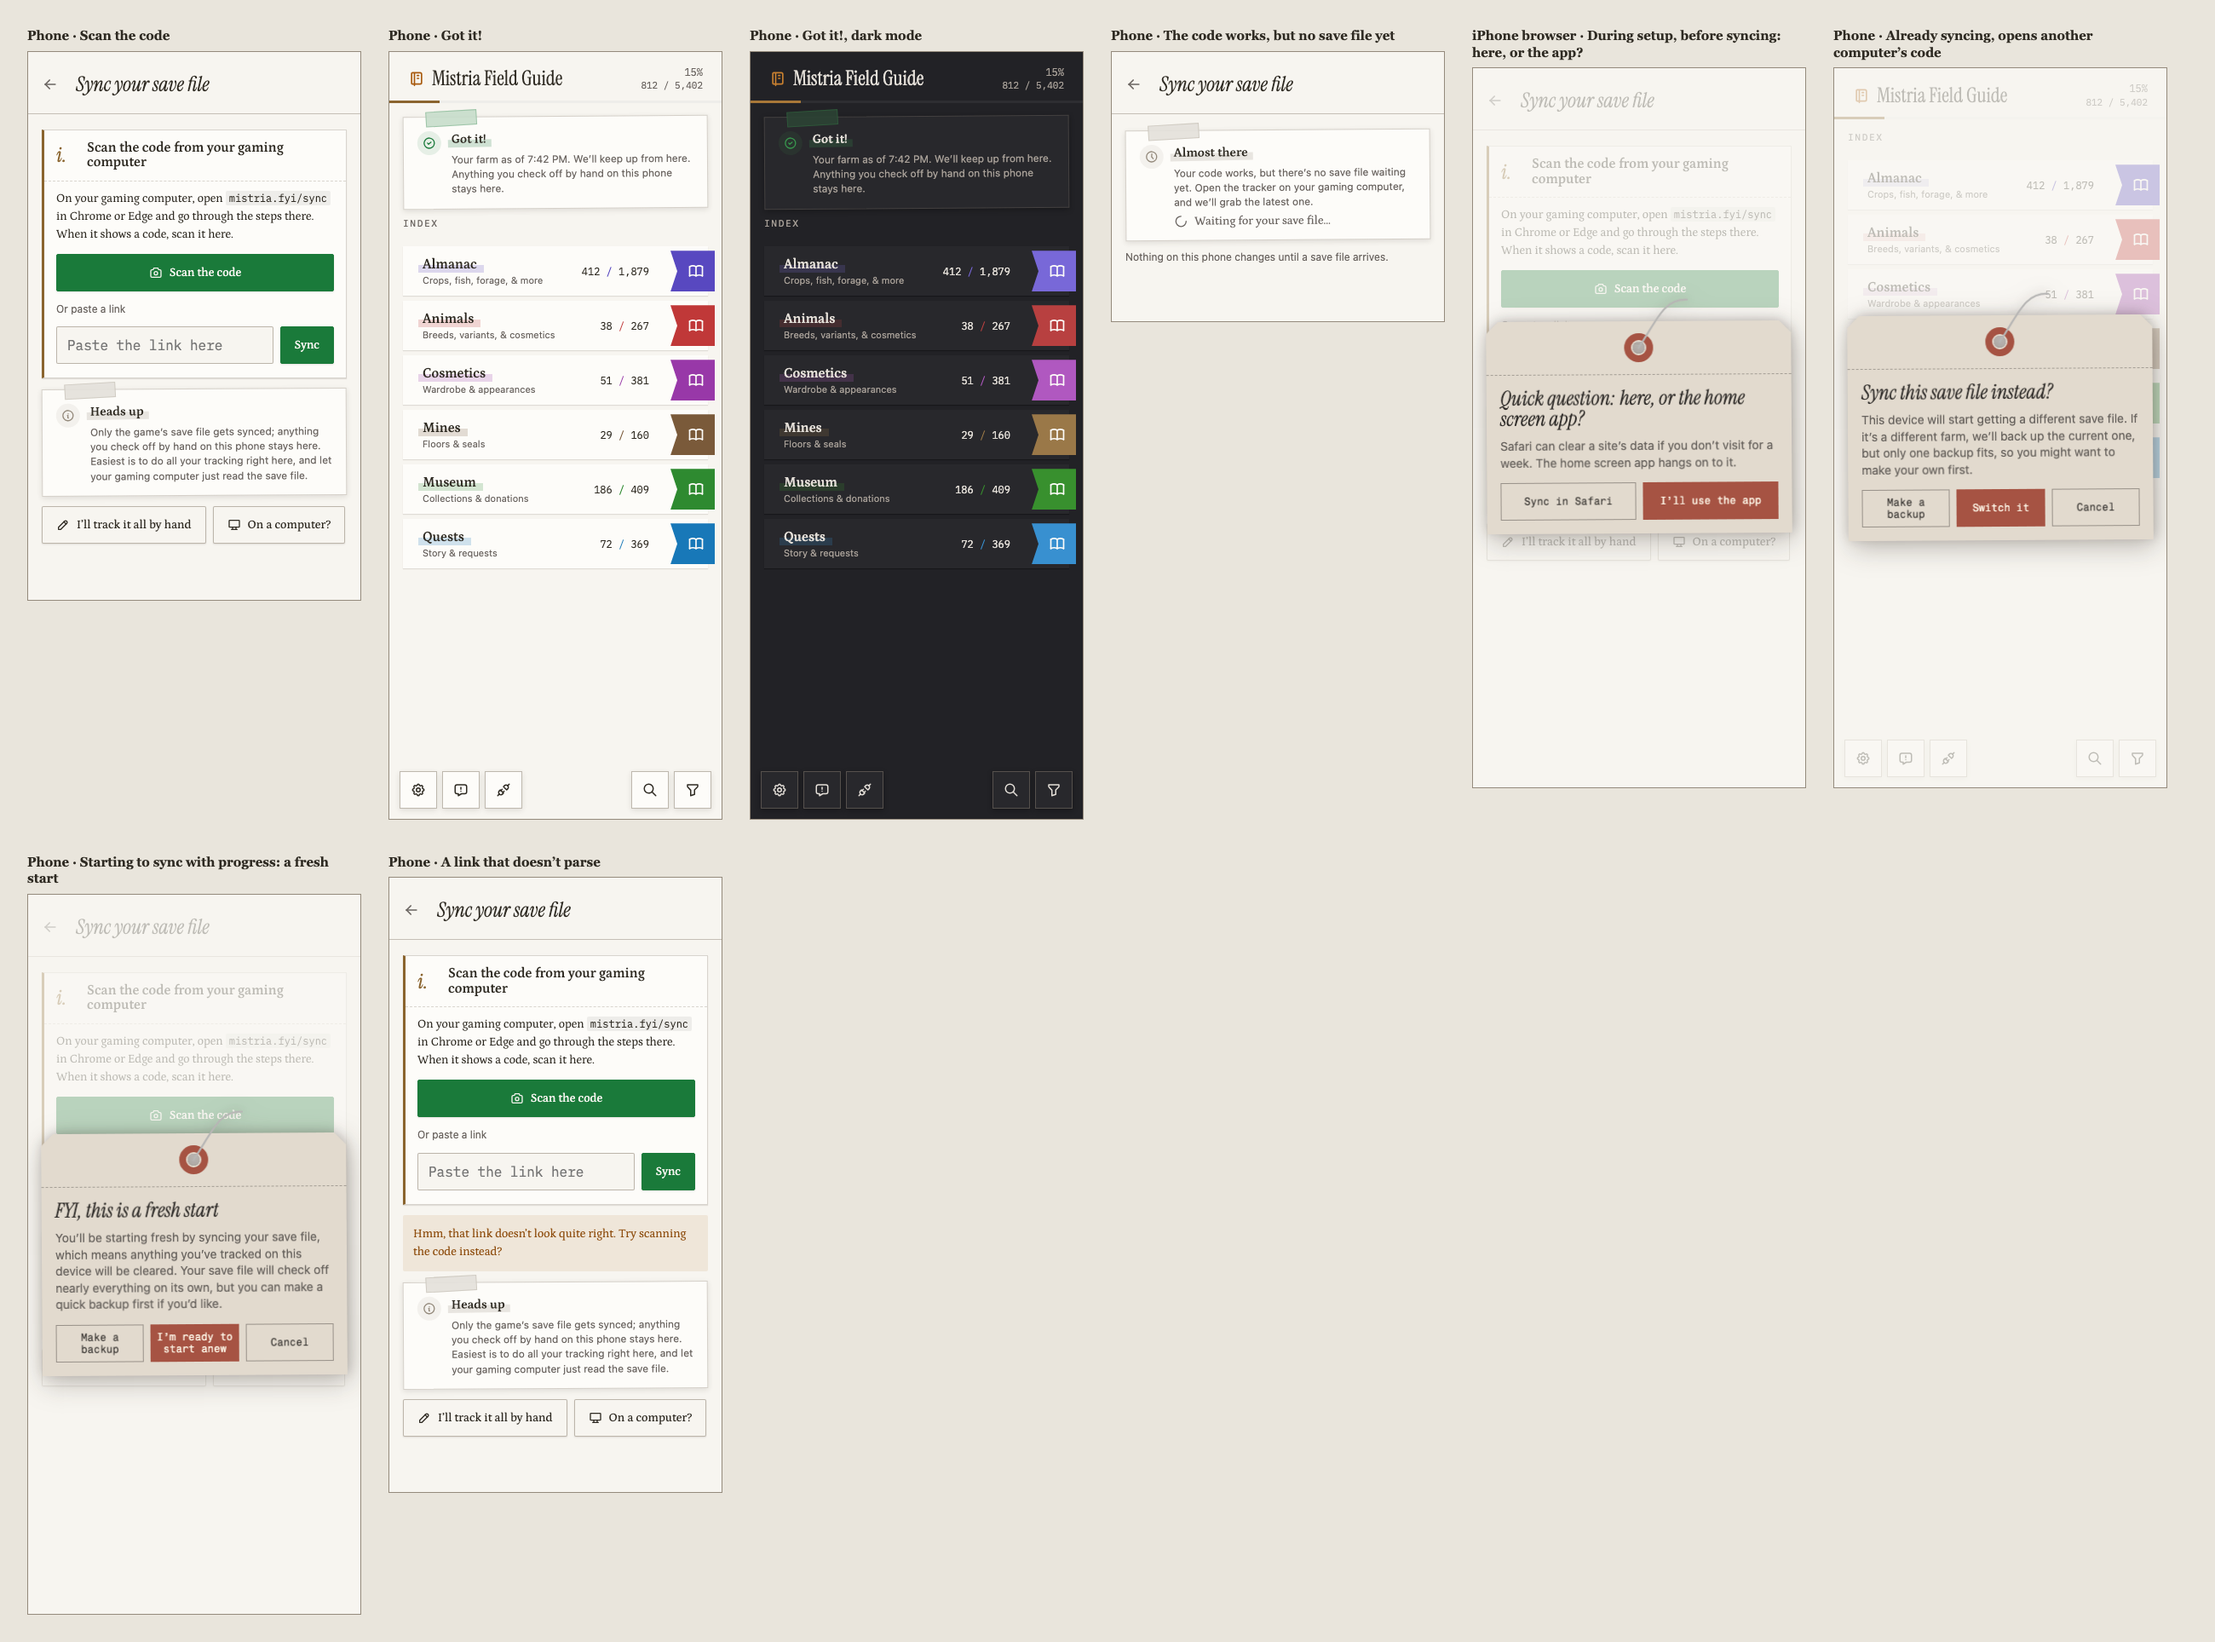
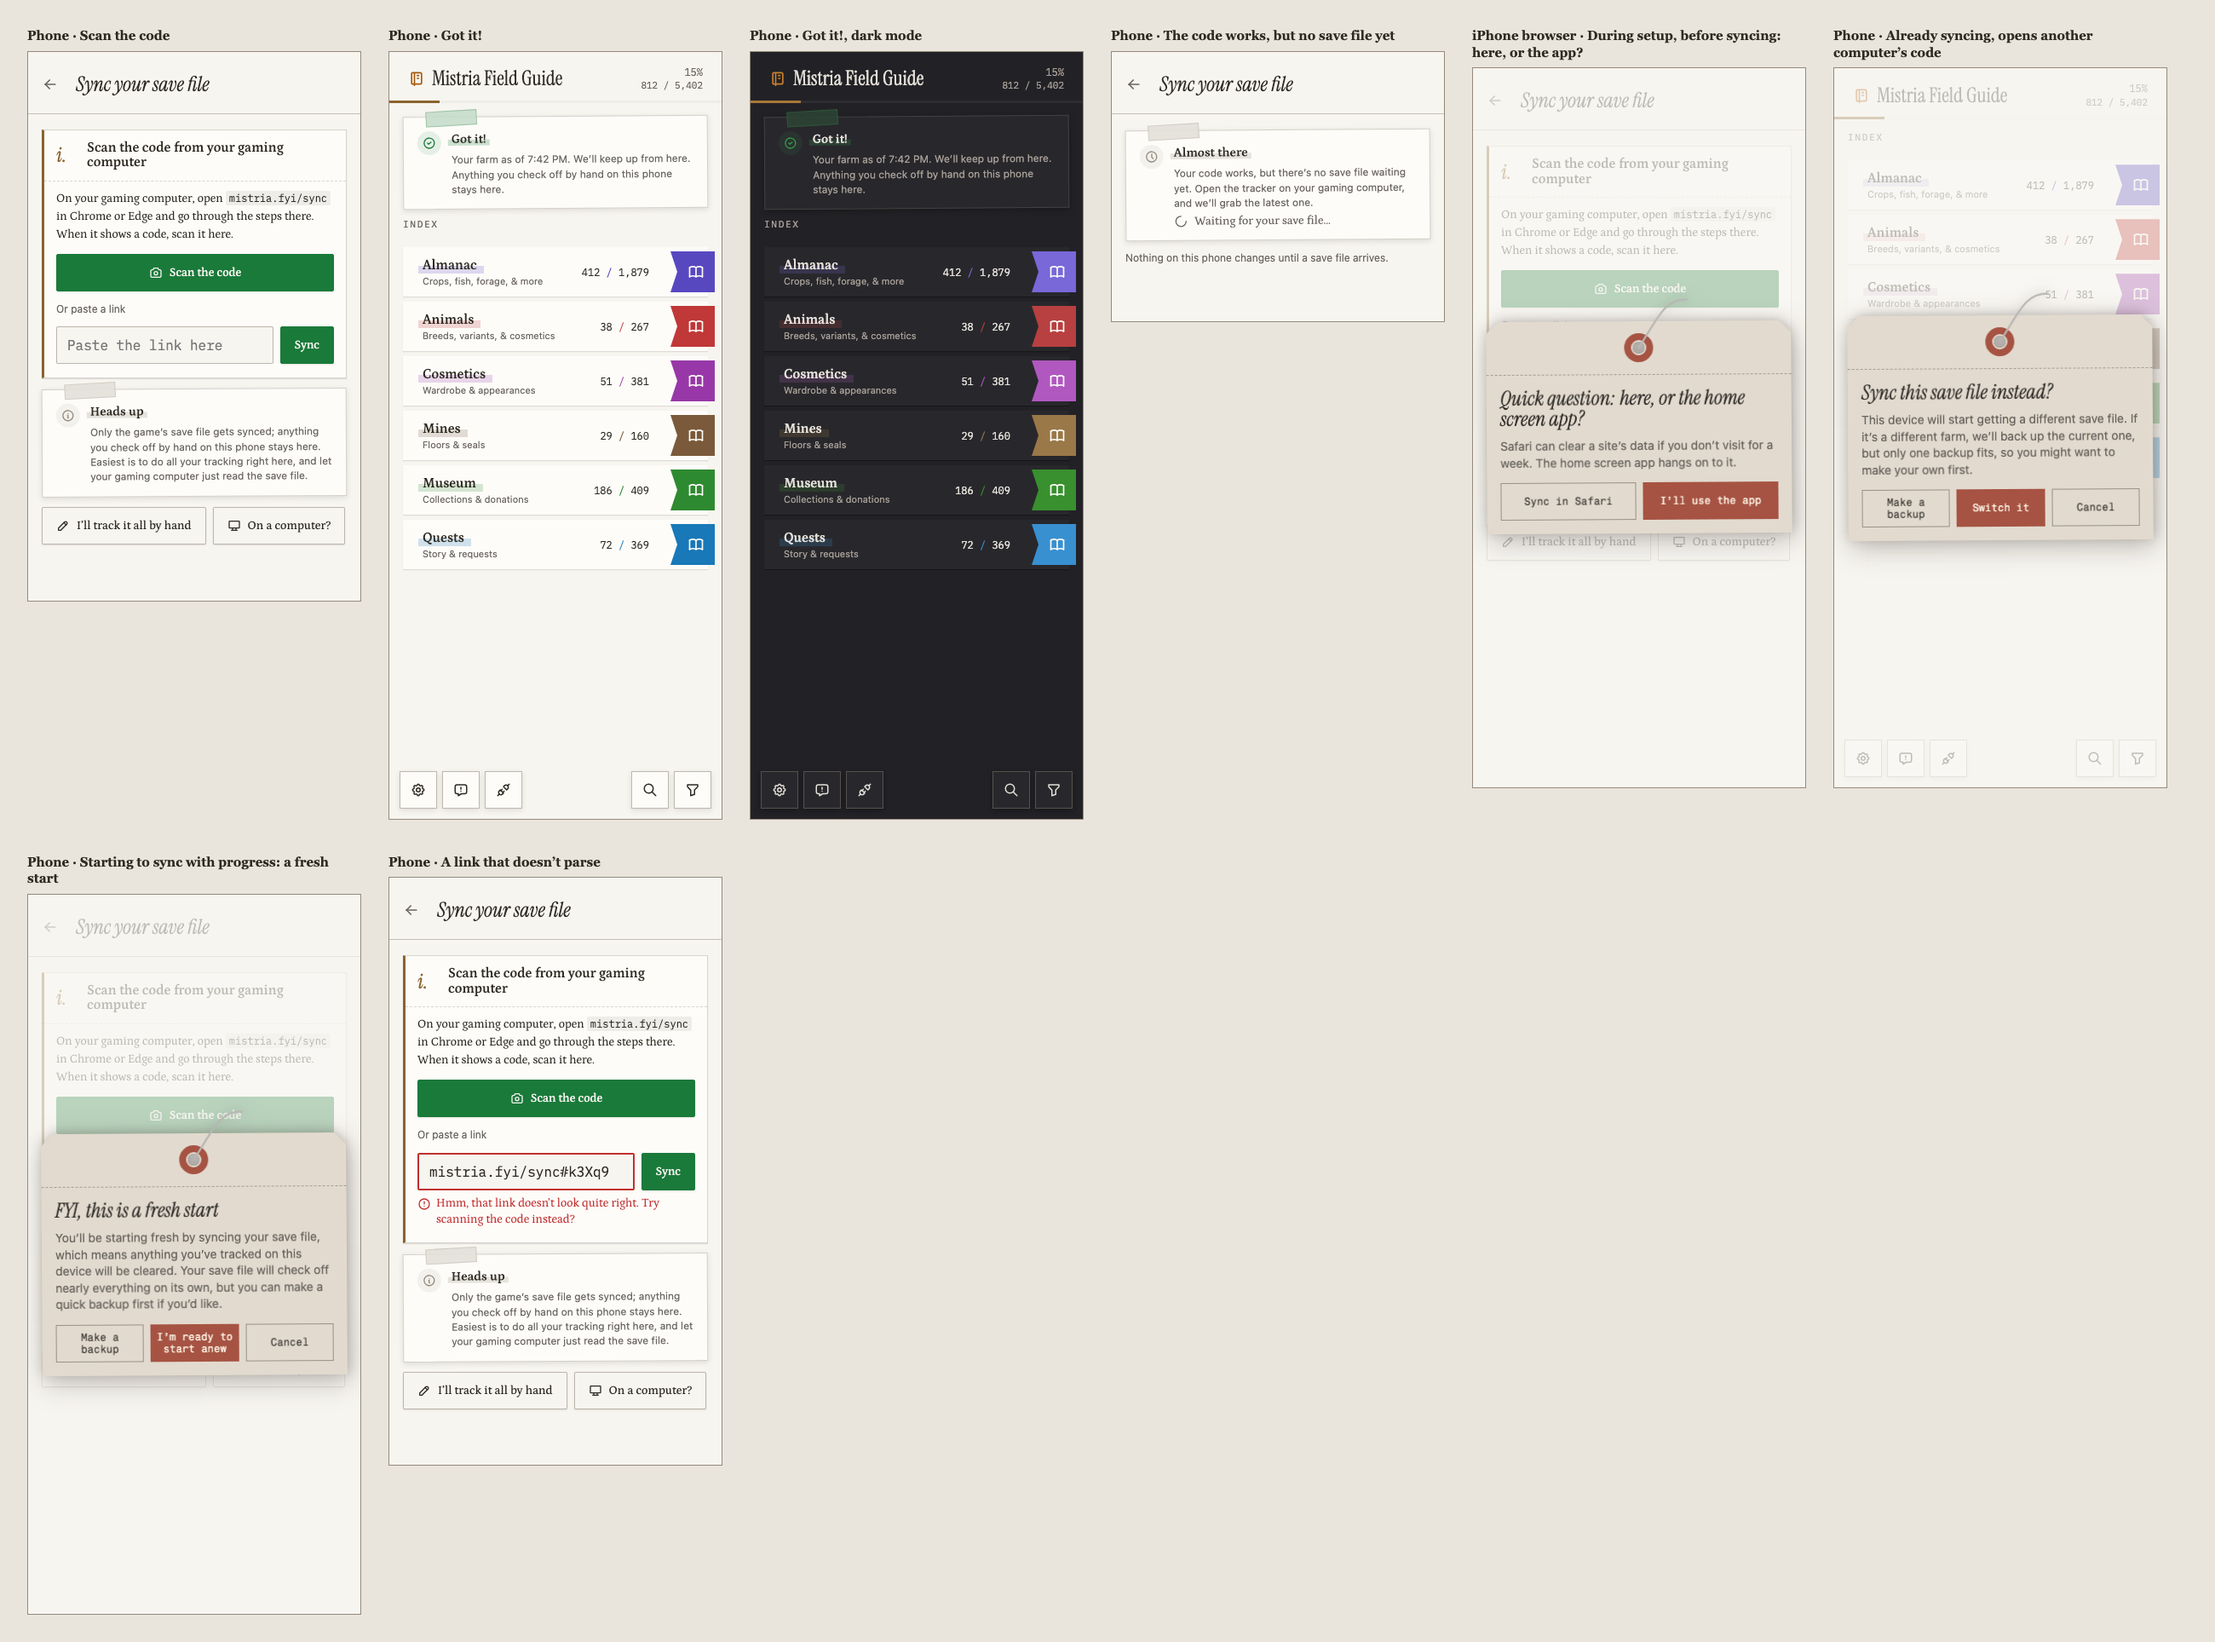
Polish sync setup mockups from the second review pass
Decisions:
- The inactive half of "Find your save file" dims its text & controls, which
  stay usable & announced; dimmed text falls below 4.5:1 by design.
- Field-note highlighters run under each line at that line's length, via
  box-decoration-break, instead of one stripe capped at half the width.
- A bad link's error sits under the paste field, which turns red & is
  described by it.
- Data shows the farmer & farm on separate lines.

diff --git a/docs/sync-setup.md b/docs/sync-setup.md
@@ -129,9 +129,11 @@ at the bottom.
 
 1. **Find your save file.** The step admits it’s the weirdest part & promises smooth sailing after.
    It has two halves, copying the folder & dragging the file in, both always visible but only one
-   active at a time, marked by an accent rule beside it; the other half keeps a hairline rule.
-   Nothing is dimmed or disabled except the drop box itself before the copy, so help, the platform
-   switch, & the instructions stay readable & usable, & the next step is still obvious at a glance.
+   active at a time, marked by an accent rule beside it; the other half keeps a hairline rule & its
+   text & controls dim, so the next step is obvious at a glance. Dimmed isn’t disabled: everything
+   in the other half stays usable & is announced normally, & only the drop box itself is disabled
+   before the copy. The dimmed text falls below 4.5:1 on purpose, since emphasis is its job; the
+   active half carries every instruction at full contrast (maintainer’s choice).
    - **Copy the folder.** The path (Windows by default; “On Linux, Steam Deck, or a Mac?” shows the
      others) with a Copy button. The drop box below looks inactive until the path is copied (a
      hairline border & muted icon, its label still at full contrast, & `aria-disabled` on the box
@@ -216,7 +218,8 @@ watched, but it’s a handy way to grab a save file for development.
   file applies with the usual rules.
 - **The gaming computer** that scans or opens its own code says “Your save file is already on this
   computer.” & stays as it is.
-- **A code that doesn’t parse** says so & keeps scanning & pasting.
+- **A code that doesn’t parse** says so right under the paste field (`sync_scan_bad`), which gets a
+  red border, `aria-invalid`, & the error as its description; scanning stays available.
 
 ## Living with it
 
@@ -447,6 +450,8 @@ parentheses after a button is its subtitle. Line breaks in a body are paragraphs
 | `sync_panel_file`         | Save file                                                                                                                                                                                        |
 | `sync_panel_last`         | Last save file                                                                                                                                                                                   |
 | `sync_panel_date`         | In-game date                                                                                                                                                                                     |
+| `sync_panel_farmer`       | Farmer                                                                                                                                                                                           |
+| `sync_panel_farm`         | Farm                                                                                                                                                                                             |
 | `sync_panel_code`         | Your code                                                                                                                                                                                        |
 | `sync_data_intro`         | Sync your save file, or import, back up, or reset your Field Guide progress.                                                                                                                     |
 | `sync_status_keep_open`   | Keep this tab open while you play so we can sync your save file.                                                                                                                                 |
@@ -542,3 +547,6 @@ On other devices:
 - After review round two: once a code exists, setup finishes with “Go to my field guide”; the
   retired-code notice is neutral & offers “Stop syncing”; Data’s sync card holds the ongoing drop
   box; only the drop box is ever disabled; Data’s reset stays in the lane (maintainer).
+- After the second mockup pass: the inactive half of “Find your save file” dims its text & controls;
+  field-note highlighters run under each line at that line’s length; a bad link’s error sits under
+  the paste field; Data shows the farmer & farm on separate lines (maintainer).
